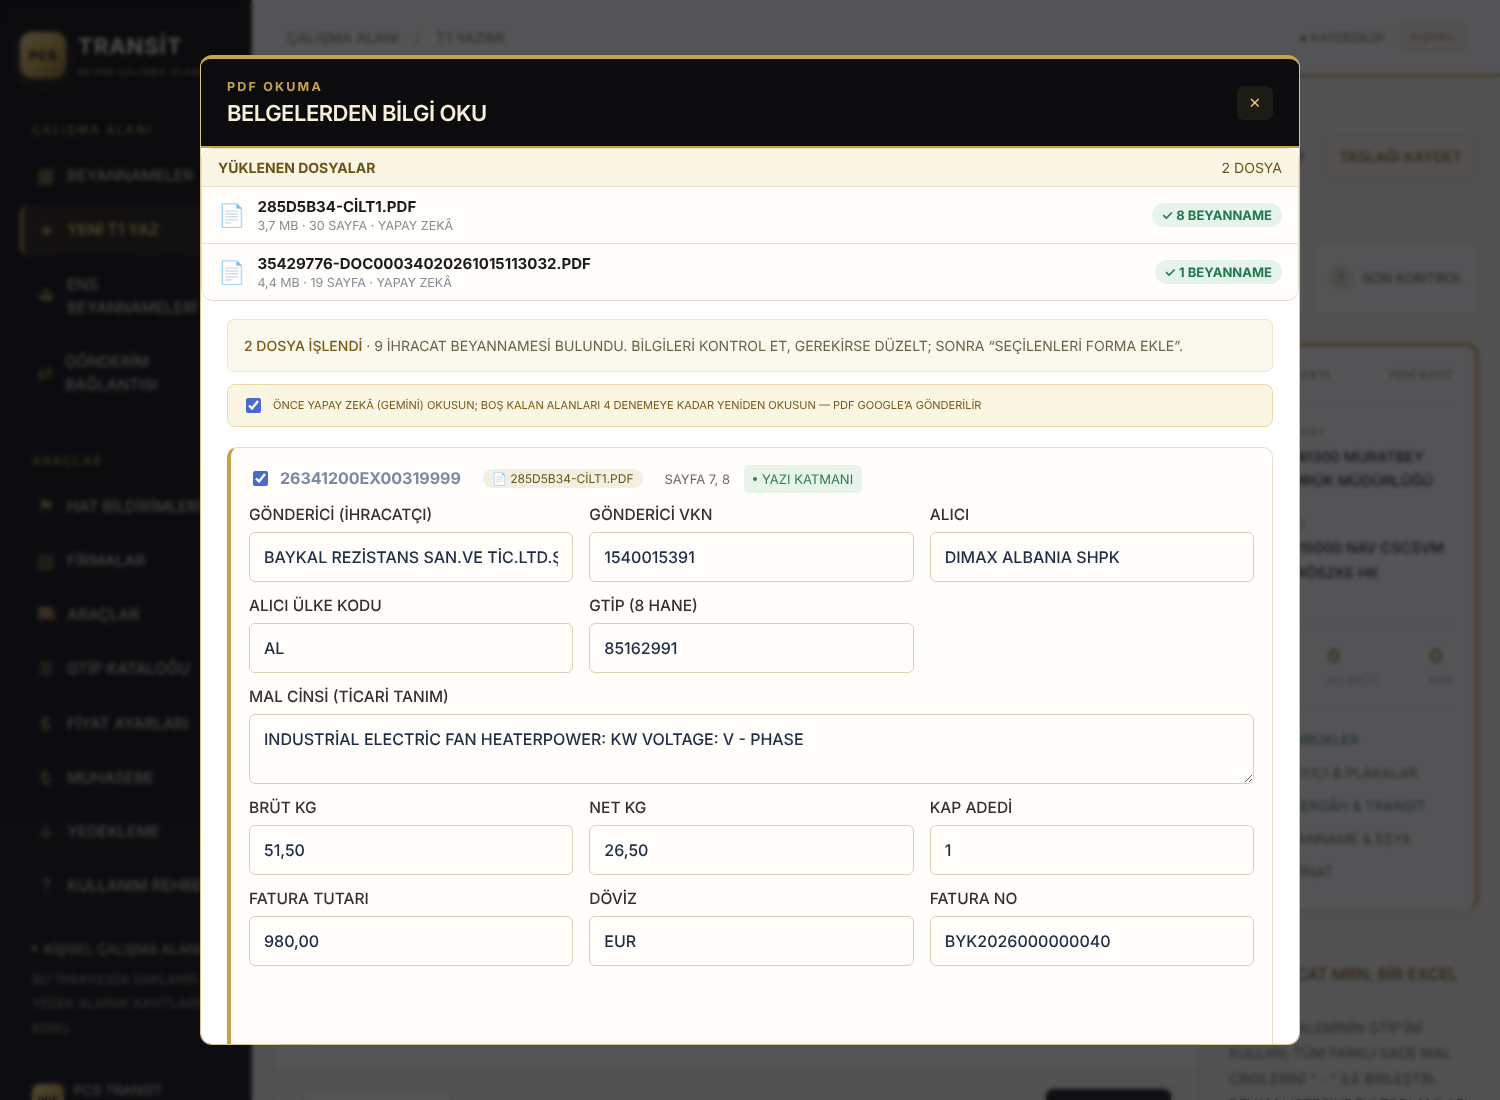
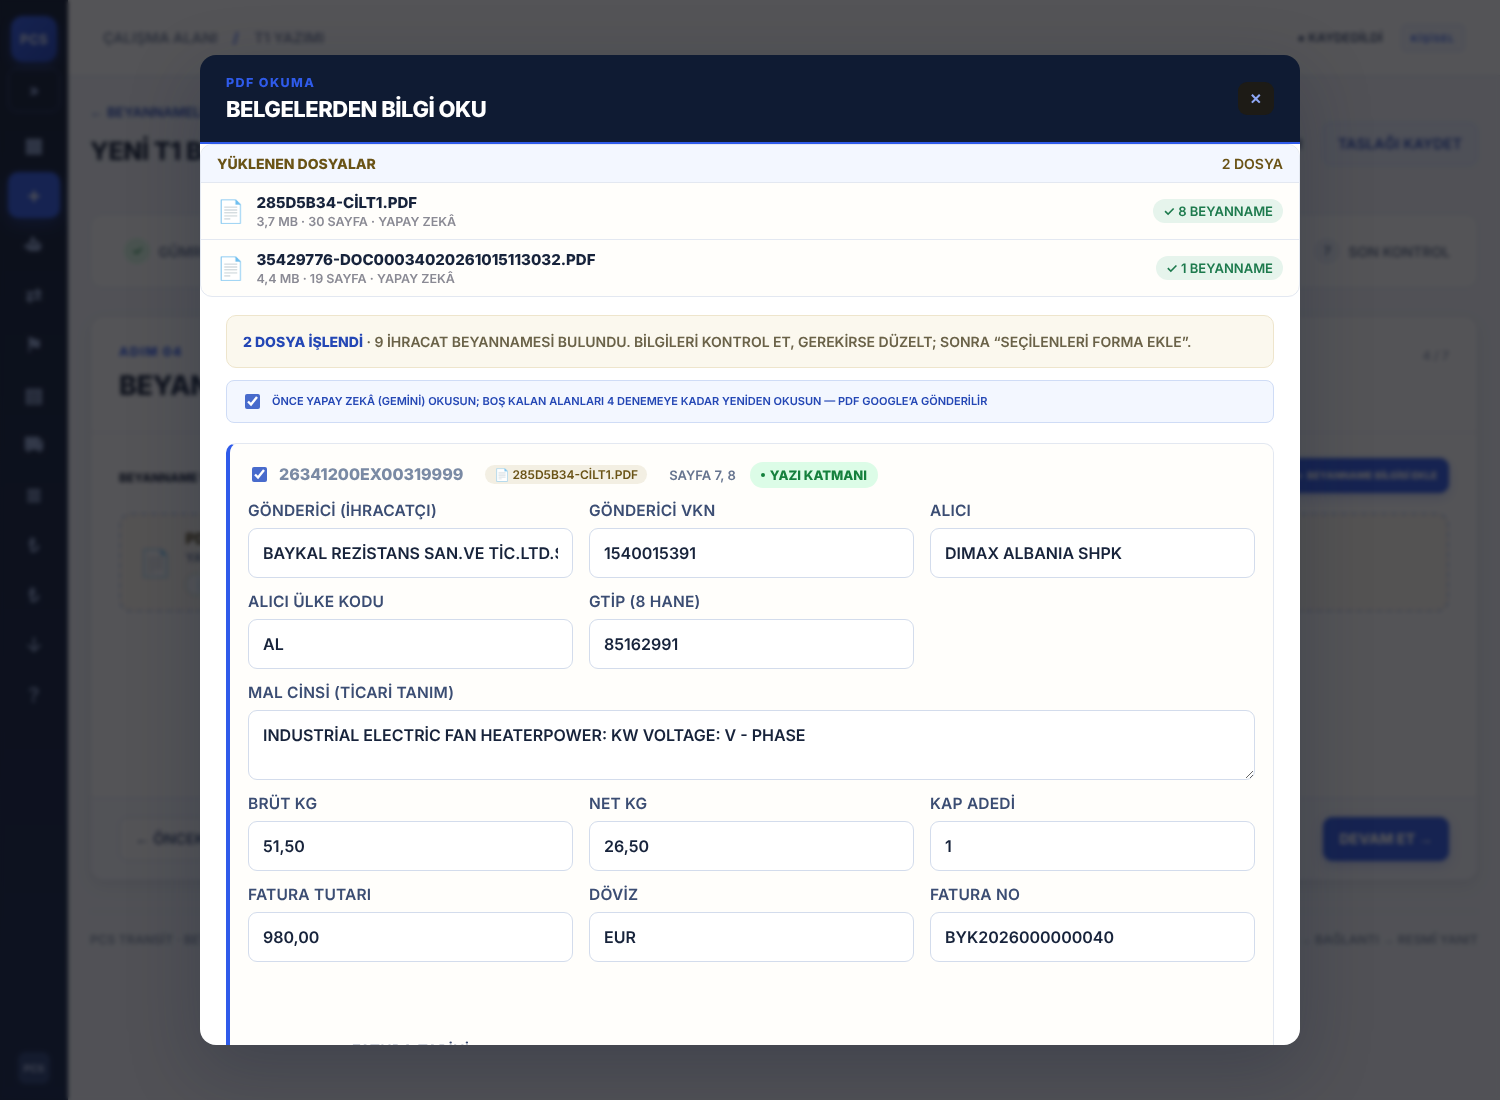
PDF okuma arka planda da sürsün: beklemeler Web Worker'da, sessiz ses ve Web Lock ile sekme yavaşlatması engellenir
Claude-Session: https://claude.ai/code/session_0131aE7XCffjHkh7CXKLT4XM

diff --git a/pdf-import.js b/pdf-import.js
@@ -1,6 +1,7 @@
 import {readPdf,stopOcr} from './pdf-reader.js';
 import {analyze,findMrn,invoiceOrphans} from './pdf-parse.js';
 import {aiProxyUrl,askGemini,splitPdf} from './ai-extract.js';
+import {sleep,startKeepAlive,stopKeepAlive} from './keepalive.js';
 const esc=v=>String(v??'').replace(/[&<>"']/g,c=>({'&':'&amp;','<':'&lt;','>':'&gt;','"':'&quot;',"'":'&#39;'}[c]));
 let countriesPromise=null;
 const loadCountries=()=>countriesPromise??=fetch('customs.json').then(r=>r.json()).then(v=>v.countries||[]).catch(()=>[]);
@@ -42,7 +43,6 @@ export function installPdfImport({references,toast,existingMrns,addRecords,curre
  const API_KEY={sender:'senderName',senderTax:'senderTaxNo',receiver:'receiverName',receiverCountry:'receiverCountry',gtip:'gtip8',description:'description',gross:'grossKg',net:'netKg',packages:'packages',amount:'invoiceAmount',currency:'currency',invoice:'invoiceNo',invoiceDate:'invoiceDate'};
  const REQUIRED=['sender','receiver','gtip','description','gross','net','amount','currency','invoice','packages','receiverCountry'];
  const lastAiErr=r=>r.lastErr||'';
- const sleep=ms=>new Promise(r=>setTimeout(r,ms));
  const normMrn=m=>findMrn(String(m||'').replace(/\s/g,''))||String(m||'').toUpperCase().replace(/\s/g,'');
  const filled=v=>v!==null&&v!==undefined&&String(v).trim()!=='';
  function mergeRaw(store,list){
@@ -151,7 +151,7 @@ export function installPdfImport({references,toast,existingMrns,addRecords,curre
   const file=item.file;
   let aiOk=false,aiNote='',aiUsed=0;const prevGroups=groups;groups=[];const useAi=$('#pdfUseAi').checked&&!!aiProxyUrl(),msgs={ai:'',local:''};
   const pos=files.indexOf(item)+1,tag='<b>Dosya '+pos+' / '+files.length+'</b> · '+esc(item.name)+'<br>';
-  const show=()=>{$('#pdfStatus').innerHTML=tag+[msgs.ai,msgs.local].filter(Boolean).join('<br>')+'<br><small>⏳ Okuma sürerken bu sekmeyi önde tutun; tarayıcı arka plandaki sekmeyi yavaşlatır.</small>'};
+  const show=()=>{$('#pdfStatus').innerHTML=tag+[msgs.ai,msgs.local].filter(Boolean).join('<br>')+'<br><small>⏳ Okuma arka planda da sürer; başka sekmeye geçebilirsin (pencereyi küçültme).</small>'};
   item.state='okunuyor';renderFiles();msgs.local='PDF açılıyor…';show();
   try{
    await references.ready;const countries=await loadCountries();
@@ -188,8 +188,8 @@ export function installPdfImport({references,toast,existingMrns,addRecords,curre
  }
  async function pump(){
   if(busy)return;busy=true;
-  try{while(queue.length&&dlg.open){const item=queue.shift();await processFile(item)}}
-  finally{busy=false}
+  startKeepAlive();try{while(queue.length&&dlg.open){const item=queue.shift();await processFile(item)}}
+  finally{busy=false;stopKeepAlive()}
   const attached=attachInvoices();render();
   const done=files.filter(f=>f.state==='tamam'),bad=files.filter(f=>f.state==='hata'),noInv=groups.filter(g=>!g.values.invoice).length;
   $('#pdfStatus').innerHTML='<b>'+files.length+' dosya işlendi</b> · '+groups.length+' ihracat beyannamesi bulundu'+(attached?' · '+attached+' faturanın bilgisi ayrı dosyadan eşleştirildi':'')+(noInv?'<br><span class="pdfAiErr">'+noInv+' beyannamede fatura bilgisi yok. Fatura ayrı bir PDF ise “＋ Başka PDF ekle” ile ekleyin; tutarı uyuşan beyannameye otomatik bağlanır.</span>':'')+(bad.length?' · <span class="pdfAiErr">'+bad.length+' dosya okunamadı</span>':'')+'. Bilgileri kontrol et, gerekirse düzelt; sonra “Seçilenleri forma ekle”.'+files.map(f=>f.status&&f.state!=='tamam'?'<br>'+f.status:'').join('')+files.filter(f=>f.state==='tamam'&&/UYARI|okunamadı/.test(f.note)).map(f=>'<br><span class="pdfAiErr">'+esc(f.name)+': '+esc(f.note.split(' · ').pop())+'</span>').join('')+(!aiProxyUrl()?'<br>Yapay zekâ ile okuma kurulu değil (daha doğru sonuç için kurulabilir).':'');

diff --git a/keepalive.js b/keepalive.js
@@ -1,0 +1,13 @@
+// PDF okuma sürerken sekme arka plana alınsa bile çalışmaya devam etsin diye:
+// 1) süre beklemeleri Web Worker içinde (arka plan sekmelerde 1 sn'ye yavaşlatılmaz)
+// 2) duyulmayacak kadar kısık bir ses açık tutulur (tarayıcı sesli sekmeyi yavaşlatmaz)
+// 3) Web Lock tutulur (sekme dondurulmasın)
+let worker=null,seq=0;const pending=new Map();
+function getWorker(){if(worker)return worker;try{const src='onmessage=e=>{const id=e.data.id;setTimeout(()=>postMessage(id),e.data.ms)}';worker=new Worker(URL.createObjectURL(new Blob([src],{type:'text/javascript'})));worker.onmessage=e=>{const r=pending.get(e.data);if(r){pending.delete(e.data);r()}}}catch{worker=null}return worker}
+export const sleep=ms=>{const w=getWorker();if(!w)return new Promise(r=>setTimeout(r,ms));return new Promise(r=>{const id=++seq;pending.set(id,r);w.postMessage({id,ms})})};
+let ctx=null,osc=null,releaseLock=null,active=0;
+export function startKeepAlive(){active++;if(active>1)return;
+ try{const AC=window.AudioContext||window.webkitAudioContext;if(AC){ctx=new AC();const g=ctx.createGain();g.gain.value=0.0008;osc=ctx.createOscillator();osc.frequency.value=30;osc.connect(g);g.connect(ctx.destination);osc.start();ctx.resume?.()}}catch{}
+ try{if(navigator.locks)navigator.locks.request('t1-pdf-okuma',()=>new Promise(res=>{releaseLock=res})).catch(()=>{})}catch{}}
+export function stopKeepAlive(){active=Math.max(0,active-1);if(active>0)return;
+ try{osc?.stop();ctx?.close()}catch{}osc=null;ctx=null;try{releaseLock?.()}catch{}releaseLock=null}
